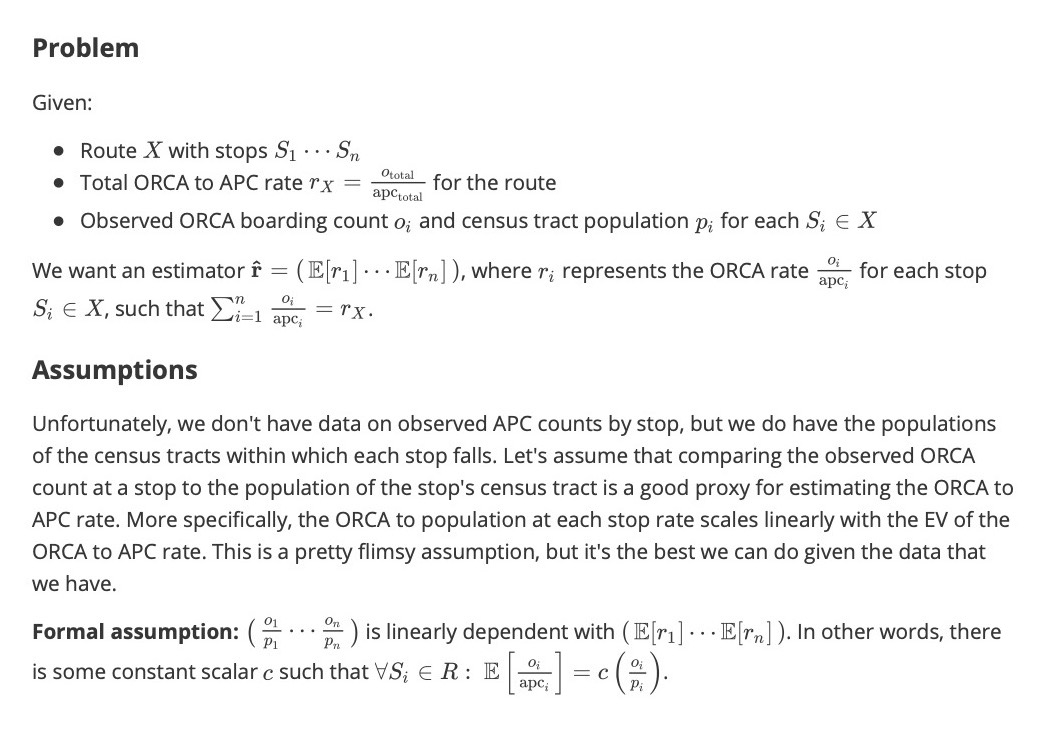
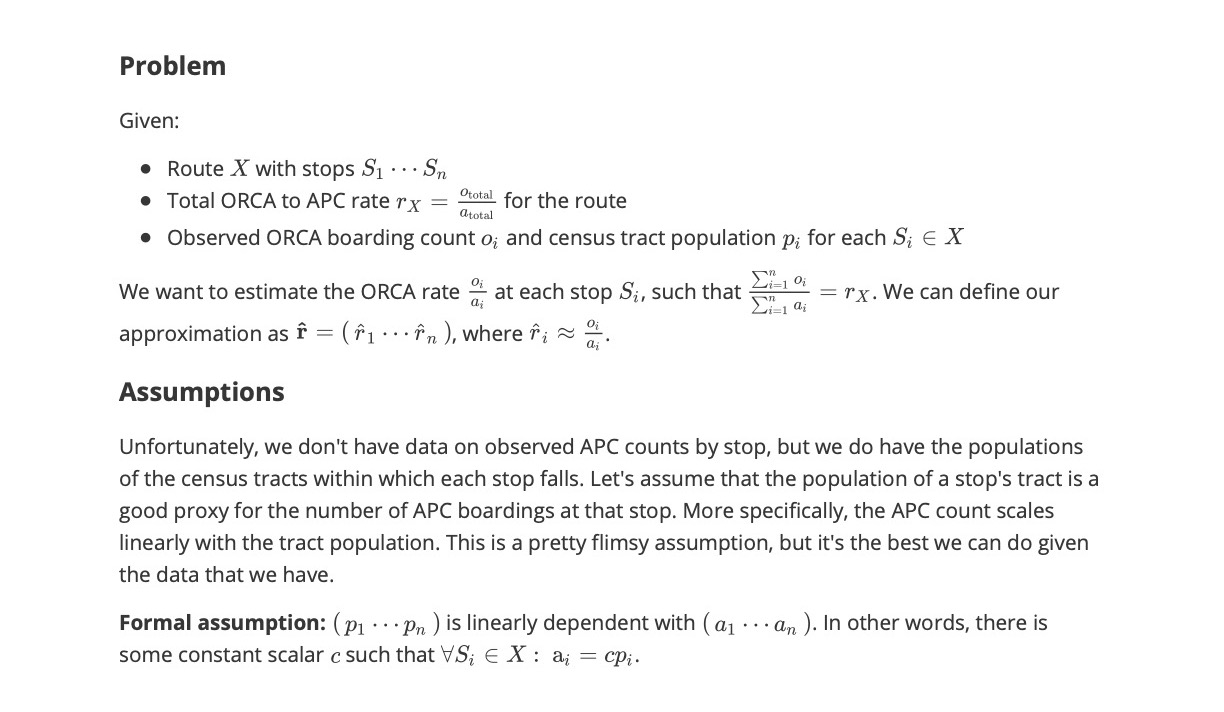
update docs

diff --git a/docs/rates.md b/docs/rates.md
@@ -3,16 +3,16 @@
 Given:
 
 * Route $X$ with stops $S_1\cdots S_n$
-* Total ORCA to APC rate $r_X=\frac{o_{\text{total}}}{\text{apc}_{\text{total}}}$ for the route
+* Total ORCA to APC rate $r_X=\frac{o_{\text{total}}}{a_{\text{total}}}$ for the route
 * Observed ORCA boarding count $o_i$ and census tract population $p_i$ for each $S_i\in X$
 
-We want an estimator $\bold{\hat r}=\begin{pmatrix}\mathbb E[r_1]\cdots\mathbb E[r_n]\end{pmatrix}$, where $r_i$ represents the ORCA rate $\frac{o_i}{\text{apc}_i}$ for each stop $S_i\in X$, such that $\sum_{i=1}^{n}\frac{o_i}{\text{apc}_i}=r_X$.
+We want to estimate the ORCA rate $\frac{o_i}{a_i}$ at each stop $S_i$, such that $\frac{\sum_{i=1}^{n}o_i}{\sum_{i=1}^{n}a_i}=r_X$. We can define our approximation as $\bold{\hat r}=\begin{pmatrix}\hat r_1\cdots \hat r_n\end{pmatrix}$, where $\hat r_i\approx \frac{o_i}{a_i}$.
 
 #### Assumptions
 
-Unfortunately, we don't have data on observed APC counts by stop, but we do have the populations of the census tracts within which each stop falls. Let's assume that comparing the observed ORCA count at a stop to the population of the stop's census tract is a good proxy for estimating the ORCA to APC rate. More specifically, the ORCA to population at each stop rate scales linearly with the EV of the ORCA to APC rate. This is a pretty flimsy assumption, but it's the best we can do given the data that we have.
+Unfortunately, we don't have data on observed APC counts by stop, but we do have the populations of the census tracts within which each stop falls. Let's assume that the population of a stop's tract is a good proxy for the number of APC boardings at that stop. More specifically, the APC count scales linearly with the tract population. This is a pretty flimsy assumption, but it's the best we can do given the data that we have.
 
-**Formal assumption:** $\begin{pmatrix}\frac{o_1}{p_1}\cdots\frac{o_n}{p_n}\end{pmatrix}$ is linearly dependent with $\begin{pmatrix}\mathbb E[r_1]\cdots\mathbb E[r_n]\end{pmatrix}$. In other words, there is some constant scalar $c$ such that $\forall S_i \in R:\space \mathbb E \left[\frac{o_i}{\text{apc}_i}\right]= c\left(\frac{o_i}{p_i}\right)$.
+**Formal assumption:** $\begin{pmatrix}p_1\cdots p_n\end{pmatrix}$ is linearly dependent with $\begin{pmatrix}a_1\cdots a_n\end{pmatrix}$. In other words, there is some constant scalar $c$ such that $\forall S_i \in X:\space\mathbb a_i = cp_i$.
 
 <div style="page-break-after: always; break-after: page;"></div>
 
@@ -22,17 +22,14 @@ Let:
 $$
 \bold o = \begin{pmatrix}o_1\cdots o_n\end{pmatrix}\qquad
 \bold p = \begin{pmatrix}p_1\cdots p_n\end{pmatrix}\qquad
-\bold{\hat r}' = \frac{\bold o}{\bold p}\qquad
 $$
 
-
-Under our assumption, $\bold{\hat r}'$ is linearly dependent with $\bold{\hat r}$, so there must be some $c$ such that $c\bold{\hat r}'=\bold{\hat r}$. Since we are given $r_X=\frac{o_{\text{total}}}{\text{apc}_{\text{total}}}$, we can use the definiton of $\hat{\bold r}$ to rewrite that $r_X$ as follows:
+Under our assumption, $\bold p$ is linearly dependent with $\begin{pmatrix}a_1\cdots a_n\end{pmatrix}$, so there must be some $c$ such that $\bold{\hat r}=\frac{\bold o}{c\bold p}$. Since we are given $r_X=\frac{o_{\text{total}}}{a_{\text{total}}}$, we can use our assumption to rewrite $r_X$ as follows:
 
 $$
-r_X = \mathbb E[r_X]
-= \mathbb E \left[\sum_{i=1}^{n}\frac{o_i}{\text{apc}_i}\right]
-= c\sum_{i=1}^{n}\left(\frac{o_i}{p_i}\right)
-,\text{ where }c\bold{\hat r}'=\bold{\hat r}
+r_X
+= \frac{\sum_{i=1}^{n}o_i}{\sum_{i=1}^{n}a_i}
+= \frac{\sum_{i=1}^{n}o_i}{c\sum_{i=1}^{n}p_i}
 $$
 
 Taking that definition of $r_X$, we can find $\bold{\hat r}$ as follows:
@@ -40,15 +37,12 @@ Taking that definition of $r_X$, we can find $\bold{\hat r}$ as follows:
 
 $$
 \begin{aligned}
-r_X &= c\sum_{i=1}^{n}\left(\frac{o_i}{p_i}\right) \quad\rarr\quad
-c = r_X\sum_{i=1}^{n}\left(\frac{p_i}{o_i}\right)\\\\
-\bold{\hat r} &= c\bold{\hat r}'
-=\left(
-r_X\sum_{i=1}^{n}\left(\frac{p_i}{o_i}\right)
-\right)\bold{\hat r}'
+r_X &= \frac{\sum_{i=1}^{n}o_i}{c  \sum_{i=1}^{n}p_i} \quad\rarr\quad
+c    = \frac{\sum_{i=1}^{n}o_i}{r_X\sum_{i=1}^{n}p_i}\\\\
+\bold{\hat r} &= \frac{\bold o}{c\bold p}
 =\frac
-  {\left(r_X\Sigma\bold p\right)\bold o}
-  {\left(\Sigma \bold o\right)\bold p}
+{\left(r_X\sum_{i=1}^{n}p_i\right)\bold o}
+{\left(   \sum_{i=1}^{n}o_i\right)\bold p}
 \end{aligned}
 $$
 

diff --git a/README.md b/README.md
@@ -13,7 +13,7 @@ Repository for Major Dudes
 ### Misc
 * Since we don't have CI right now, make sure to run `make` before committing/pushing, and resolve any errors
 
-## Calculation of By-Stop ORCA Penetration Rates
+### Calculation of By-Stop ORCA Penetration Rates
 
 ![](docs/img/rates-1.jpg)
 ![](docs/img/rates-2.jpg)
